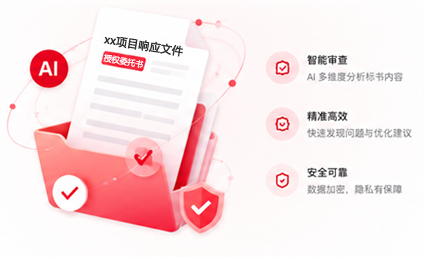
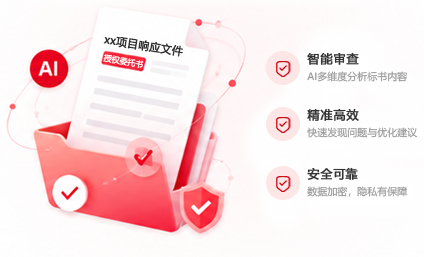
feat: 前端新增全局面包屑导航并修复胶囊数值徽章自适应
- 新增 AppBreadcrumb.vue + router.d.ts：基于路由 meta（title / parentName /
  resolveParentName / hideBreadcrumb）统一渲染面包屑，挂到 AppLayout 内容区顶部
- 为各路由补 meta.title，给 review-timeline/results 加父级，给 review-execution
  加 hideBreadcrumb；移除各视图内手写的页面标题，交由面包屑统一渲染
- 修复 .metric--pill / .balance-item--pill 胶囊徽章：背景图仅作左端帽，主体改由
  CSS 绘制（border-radius + 底色 #FBE2BC），数值 0文~10000文 长度变化时背景不截断、
  文字不溢出
- 更新 home/login 插画，新增 docs/ui/new 设计源文件

diff --git a/frontend/src/components/AppBreadcrumb.vue b/frontend/src/components/AppBreadcrumb.vue
@@ -1,0 +1,60 @@
+<script setup lang="ts">
+import { computed } from 'vue'
+import { useRoute, useRouter, type RouteLocationRaw, type RouteLocationNormalized } from 'vue-router'
+
+/**
+ * 统一面包屑：完全基于当前路由的 meta 渲染，挂在 AppLayout 内容区顶部。
+ * - 不遍历 route.matched（含 AppLayout 层且无 title），改用显式 parentName / resolveParentName。
+ * - 首页恒为第一项（指向 check），中间父级可点击，末项（当前页）为纯文本。
+ */
+interface Crumb {
+  label: string
+  to?: RouteLocationRaw
+}
+
+const route = useRoute()
+const router = useRouter()
+
+const HOME: Crumb = { label: '首页', to: { name: 'check' } }
+
+const crumbs = computed<Crumb[]>(() => {
+  const m = route.meta
+  if (m.hideBreadcrumb || !m.title) return []
+
+  const list: Crumb[] = [HOME]
+
+  // 解析父级：动态函数优先，回落到静态 parentName
+  const parentName = m.resolveParentName
+    ? m.resolveParentName(route as RouteLocationNormalized)
+    : m.parentName
+  if (parentName) {
+    const resolved = router.resolve({ name: parentName } as RouteLocationRaw)
+    // 父级目标路由必须有 title，否则静默跳过该级
+    if (resolved.meta?.title) {
+      list.push({ label: resolved.meta.title, to: { name: parentName } })
+    }
+  }
+
+  list.push({ label: m.title }) // 当前页，不可点
+  return list
+})
+
+function handleClick(to?: RouteLocationRaw) {
+  if (to) router.push(to)
+}
+</script>
+
+<template>
+  <a-breadcrumb v-if="crumbs.length" class="app-breadcrumb">
+    <a-breadcrumb-item v-for="(c, i) in crumbs" :key="i">
+      <a v-if="c.to && i < crumbs.length - 1" @click="handleClick(c.to)">{{ c.label }}</a>
+      <span v-else>{{ c.label }}</span>
+    </a-breadcrumb-item>
+  </a-breadcrumb>
+</template>
+
+<style scoped>
+.app-breadcrumb {
+  margin-bottom: 16px;
+}
+</style>

diff --git a/frontend/src/router/index.ts b/frontend/src/router/index.ts
@@ -30,55 +30,65 @@ const router = createRouter({
           path: "check",
           name: "check",
           component: () => import("@/views/CheckView.vue"),
+          meta: { title: "标书检查" },
         },
         {
           path: "history",
           name: "history",
           component: () => import("@/views/HistoryView.vue"),
+          meta: { title: "历史标书" },
         },
         {
           path: "knowledge",
           name: "knowledge",
           component: () => import("@/views/KnowledgeView.vue"),
+          meta: { title: "知识库" },
         },
         {
           path: "profile",
           name: "profile-center",
           component: () => import("@/views/ProfileCenterView.vue"),
+          meta: { title: "用户中心" },
         },
         {
           path: "projects/:id/review",
           name: "review-timeline",
           component: () => import("@/views/ReviewTimelineView.vue"),
-          meta: { interiorOnly: true },
+          meta: { title: "审查时间线", parentName: "history", interiorOnly: true },
         },
         {
           path: "projects/:id/review-execution",
           name: "review-execution",
           component: () => import("@/views/ReviewExecutionView.vue"),
+          meta: { hideBreadcrumb: true },
         },
         {
           path: "projects/:id/results",
           name: "review-results",
           component: () => import("@/views/ResultsView.vue"),
+          meta: {
+            title: "审查结果",
+            resolveParentName: (to) =>
+              to.query.from === "experience" ? "experience-dashboard" : "history",
+          },
         },
         {
           path: "experience",
           name: "experience-dashboard",
           component: () => import("@/views/ExperienceDashboard.vue"),
-          meta: { interiorOnly: true },
+          meta: { title: "标书复盘", interiorOnly: true },
         },
         {
           path: "announcements",
           name: "announcement-manage",
           component: () => import("@/views/AnnouncementManageView.vue"),
-          meta: { interiorOnly: true },
+          meta: { title: "系统公告", interiorOnly: true },
         },
         {
           path: "system-status",
           name: "system-status",
           component: () => import("@/views/SystemStatusView.vue"),
-          meta: { interiorOnly: true },
+          meta: { title: "系统状态", interiorOnly: true },
         },
       ],
     },

diff --git a/frontend/src/types/router.d.ts b/frontend/src/types/router.d.ts
@@ -1,0 +1,18 @@
+import type { RouteLocationNormalized } from 'vue-router'
+
+/**
+ * 路由 meta 字段扩展，用于驱动统一面包屑组件 AppBreadcrumb。
+ * 通过 interface 增量合并 vue-router 的 RouteMeta（必须用 interface，不能 type）。
+ */
+declare module 'vue-router' {
+  interface RouteMeta {
+    /** 该页在面包屑中显示的文本（叶级路由必填，否则不渲染面包屑） */
+    title?: string
+    /** 静态父级路由 name（一级菜单页不填） */
+    parentName?: string
+    /** 动态父级路由 name：依据 query/params 决定，优先级高于 parentName */
+    resolveParentName?: (to: RouteLocationNormalized) => string | null | undefined
+    /** 整条隐藏面包屑（用于沉浸式全屏工作台等） */
+    hideBreadcrumb?: boolean
+  }
+}

diff --git a/frontend/src/views/ResultsView.vue b/frontend/src/views/ResultsView.vue
@@ -109,13 +109,6 @@ async function startNewReview() {
 <template>
   <div class="results-view">
     <main class="content">
-      <a-breadcrumb class="breadcrumb">
-        <a-breadcrumb-item>
-          <a @click="goBack">{{ fromExperience ? '标书复盘' : '历史标书' }}</a>
-        </a-breadcrumb-item>
-        <a-breadcrumb-item>审查结果</a-breadcrumb-item>
-      </a-breadcrumb>
-
       <!-- 任务选择器 -->
       <div v-if="projectStore.reviewTasks.length > 0" class="task-bar">
         <label class="task-label">审查记录:</label>
@@ -162,13 +155,7 @@ async function startNewReview() {
 
 <style scoped>
 .content {
-  max-width: 1200px;
-  margin: 20px auto;
-  padding: 0 20px;
-}
-
-.breadcrumb {
-  margin-bottom: 20px;
+  padding: 0;
 }
 
 .task-bar {

diff --git a/frontend/src/components/AppLayout.vue b/frontend/src/components/AppLayout.vue
@@ -5,6 +5,7 @@ import { useAuthStore } from '@/stores/auth'
 import { useBillingStore } from '@/stores/billing'
 import { useAnnouncementStore } from '@/stores/announcement'
 import AppSidebar from './AppSidebar.vue'
+import AppBreadcrumb from './AppBreadcrumb.vue'
 import PurchaseModal from './billing/PurchaseModal.vue'
 import AnnouncementPopup from './announcement/AnnouncementPopup.vue'
 import AnnouncementInbox from './announcement/AnnouncementInbox.vue'
@@ -110,6 +111,7 @@ function goOfficialSite() {
         <AppSidebar />
       </a-layout-sider>
       <a-layout-content class="app-content">
+        <AppBreadcrumb />
         <router-view />
       </a-layout-content>
     </a-layout>
@@ -212,14 +214,22 @@ function goOfficialSite() {
   object-fit: contain;
 }
 
-/* 胶囊图标作为数值背景：图片左侧是小图标，右侧留白区叠数值文字 */
+/*
+ * 胶囊数值徽章：背景图（图标 + 左圆角帽）只作左端帽，胶囊主体由 CSS 绘制。
+ * 这样数值文字长度变化（0文 ~ 10000文）时，背景既不会被截断，文字也不会超出背景。
+ * - background-color 取图片文字区底色 #FBE2BC：长文本时向右无缝延伸（文字永不出框）；
+ * - border-radius 提供右圆角帽（图片自带左圆角帽）：短/长文本都能干净收边（背景永不截断）；
+ * - 图片右侧米色区与 CSS 底色一致，叠加处无接缝。
+ */
 .metric--pill {
   height: 32px;
   padding: 0 14px 0 40px; /* 左侧留给图标区，右侧留白 */
   border: 0;
+  border-radius: 9999px; /* 胶囊形：与图片半圆帽一致，并随响应式高度自适应 */
+  background-color: #FBE2BC; /* 图片文字区底色，向右延伸；与图片米色无接缝 */
   background-repeat: no-repeat;
   background-position: left center;
-  background-size: auto 32px; /* 按高度铺满，宽度按 3:1 比例约 96px */
+  background-size: auto 32px; /* 按高度铺满，宽度按 3:1 比例约 96px（仅作左端帽） */
   align-items: center;
   cursor: default;
 }

diff --git a/frontend/src/views/HistoryView.vue b/frontend/src/views/HistoryView.vue
@@ -38,11 +38,6 @@ async function deleteProject(projectId: string) {
 
 <template>
   <div class="history-view">
-    <a-breadcrumb class="breadcrumb">
-      <a-breadcrumb-item>首页</a-breadcrumb-item>
-      <a-breadcrumb-item>历史标书</a-breadcrumb-item>
-    </a-breadcrumb>
-
     <a-card class="filter-card" :bordered="false">
       <div class="filters">
         <a-input-search
@@ -101,15 +96,6 @@ async function deleteProject(projectId: string) {
 </template>
 
 <style scoped>
-.history-view {
-  max-width: 1200px;
-  margin: 0 auto;
-}
-
-.breadcrumb {
-  margin-bottom: 24px;
-}
-
 .filter-card,
 .list-card {
   border-radius: var(--r-lg);

diff --git a/frontend/src/views/ProfileCenterView.vue b/frontend/src/views/ProfileCenterView.vue
@@ -216,11 +216,6 @@ onMounted(() => {
 
 <template>
   <div class="profile-center">
-    <a-breadcrumb class="breadcrumb">
-      <a-breadcrumb-item>首页</a-breadcrumb-item>
-      <a-breadcrumb-item>个人中心</a-breadcrumb-item>
-    </a-breadcrumb>
-
     <a-spin :spinning="loading">
       <a-tabs v-model:activeKey="activeKey" class="center-tabs">
         <a-tab-pane key="info" tab="我的信息">
@@ -375,15 +370,6 @@ onMounted(() => {
 </template>
 
 <style scoped>
-.profile-center {
-  max-width: 1280px;
-  margin: 0 auto;
-}
-
-.breadcrumb {
-  margin-bottom: 18px;
-}
-
 .center-tabs {
   background: var(--bg1);
   border: 1px solid var(--line);

diff --git a/frontend/src/views/CheckView.vue b/frontend/src/views/CheckView.vue
@@ -315,11 +315,6 @@ function getStatusClass(status: string) {
     <input ref="tenderInput" type="file" accept=".pdf,.docx" multiple hidden @change="handleUpload($event, 'tender')" />
     <input ref="bidInput" type="file" accept=".pdf,.docx" multiple hidden @change="handleUpload($event, 'bid')" />
 
-    <a-breadcrumb class="breadcrumb">
-      <a-breadcrumb-item>首页</a-breadcrumb-item>
-      <a-breadcrumb-item>标书检查</a-breadcrumb-item>
-    </a-breadcrumb>
-
     <!-- 卡片①：创建新项目 -->
     <section class="card card-project">
       <div class="card-project__main">
@@ -579,16 +574,10 @@ function getStatusClass(status: string) {
 
 <style scoped>
 .check-view {
-  max-width: 1200px;
-  margin: 0 auto;
   display: flex;
   flex-direction: column;
   gap: 24px;
   font-family: "Microsoft YaHei", "PingFang SC", Arial, sans-serif;
-}
-
-.breadcrumb {
-  margin-bottom: 0;
 }
 
 /* ============ 卡片通用 ============ */

diff --git a/frontend/src/views/KnowledgeView.vue b/frontend/src/views/KnowledgeView.vue
@@ -177,11 +177,6 @@ function getScoreColor(score: number): string {
 
 <template>
   <div class="knowledge-view">
-    <a-breadcrumb class="breadcrumb">
-      <a-breadcrumb-item>首页</a-breadcrumb-item>
-      <a-breadcrumb-item>知识库</a-breadcrumb-item>
-    </a-breadcrumb>
-
     <div class="knowledge-container">
       <!-- 左侧：搜索区域 (70%) -->
       <div class="search-panel">
@@ -347,11 +342,7 @@ function getScoreColor(score: number): string {
 
 <style scoped>
 .knowledge-view {
-  padding: 0 24px 24px;
-}
-
-.breadcrumb {
-  margin-bottom: 24px;
+  padding: 0 0 24px;
 }
 
 .knowledge-container {

diff --git a/frontend/src/components/billing/PurchaseModal.vue b/frontend/src/components/billing/PurchaseModal.vue
@@ -620,13 +620,19 @@ watch(
   font-weight: 500;
 }
 
-/* 胶囊图标作为数值背景：图片左侧是小图标，右侧留白区叠数值文字 */
+/*
+ * 胶囊数值徽章：背景图（图标 + 左圆角帽）只作左端帽，胶囊主体由 CSS 绘制。
+ * 数值文字长度变化（0文 ~ 10000文）时，背景既不会被截断，文字也不会超出背景。
+ * 同款实现见 AppLayout.vue .metric--pill。
+ */
 .balance-item--pill {
   height: 26px;
   padding: 0 10px 0 32px; /* 左侧留给图标区，右侧留白 */
+  border-radius: 9999px; /* 胶囊形：与图片半圆帽一致 */
+  background-color: #FBE2BC; /* 图片文字区底色，向右延伸；与图片米色无接缝 */
   background-repeat: no-repeat;
   background-position: left center;
-  background-size: auto 26px; /* 按高度铺满，宽度按 3:1 比例约 78px */
+  background-size: auto 26px; /* 按高度铺满，宽度按 3:1 比例约 78px（仅作左端帽） */
   align-items: center;
   color: #333;
   font-weight: 600;

diff --git a/frontend/src/views/ReviewTimelineView.vue b/frontend/src/views/ReviewTimelineView.vue
@@ -54,9 +54,7 @@ onUnmounted(() => {
 
 <style scoped>
 .content {
-  max-width: 1200px;
-  margin: 2rem auto;
-  padding: 0 2rem;
+  padding: 0;
 }
 
 .section {

diff --git a/frontend/src/views/SystemStatusView.vue b/frontend/src/views/SystemStatusView.vue
@@ -290,9 +290,7 @@ onUnmounted(stopAutoRefresh)
 
 <style scoped>
 .system-status {
-  max-width: 1200px;
-  margin: 0 auto;
-  padding: 24px 20px 48px;
+  padding: 0 0 24px;
 }
 .page-head {
   display: flex;